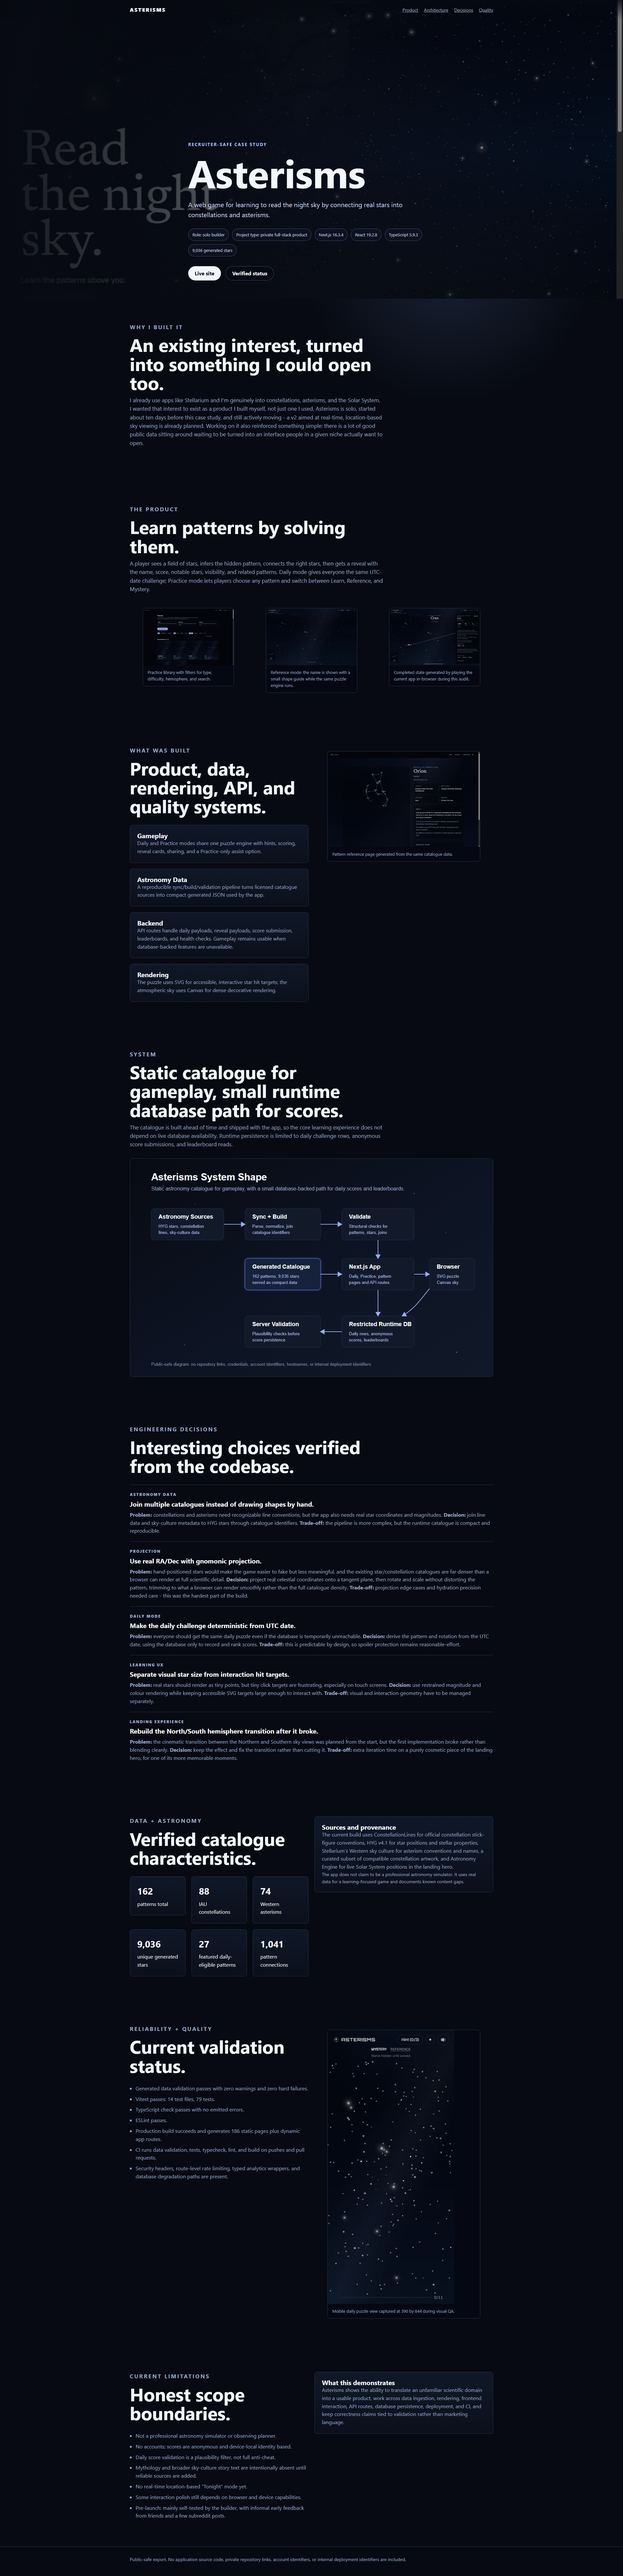
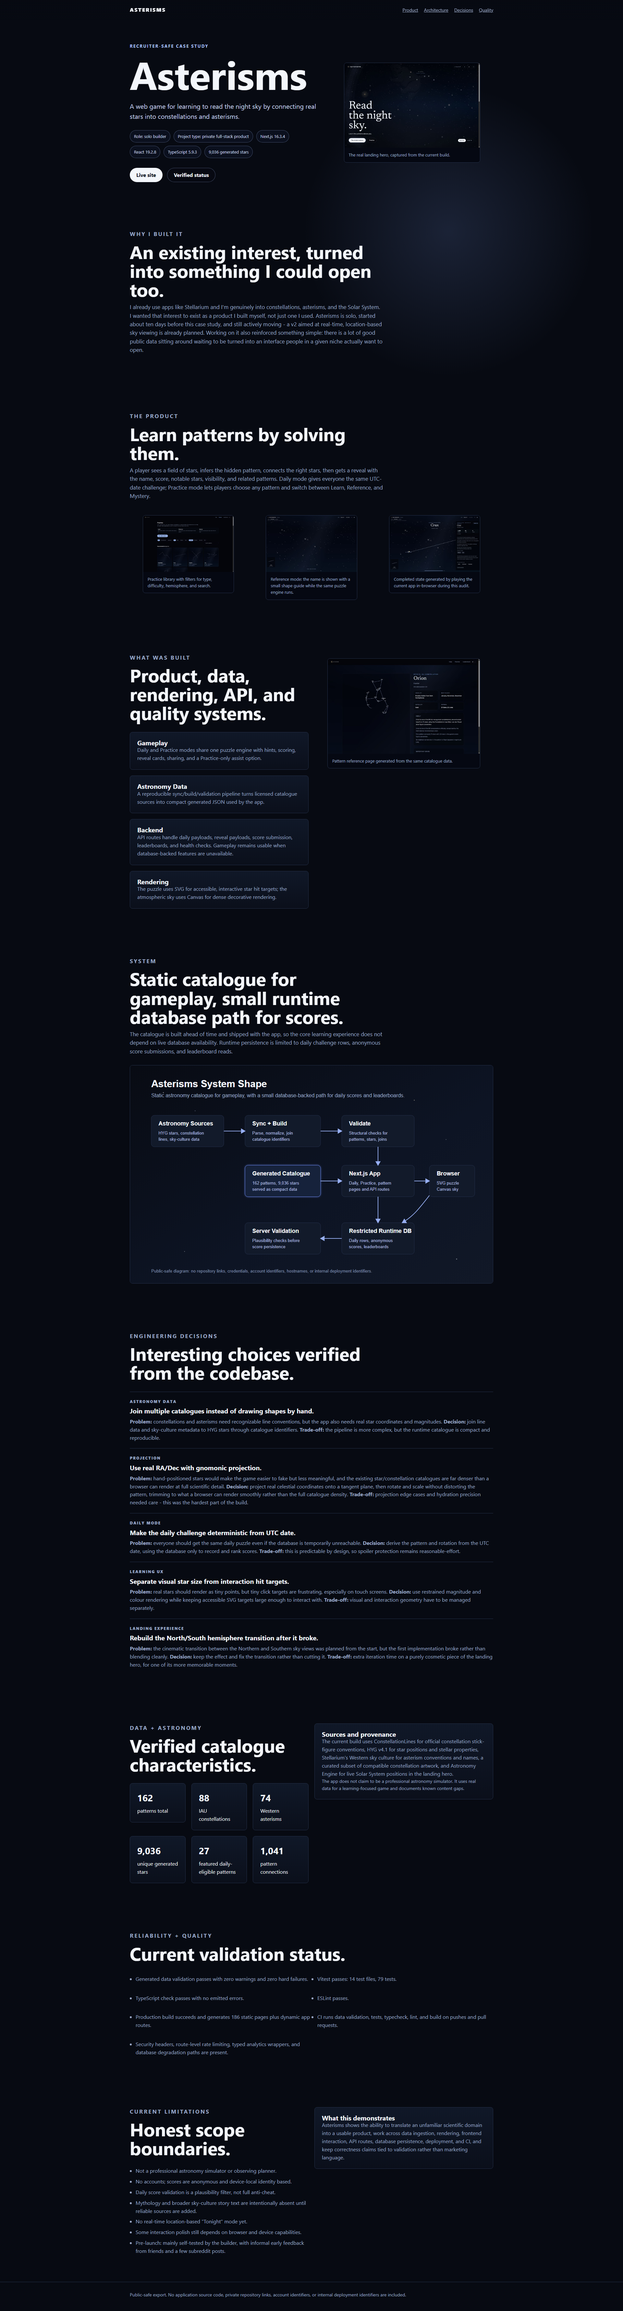
fix: stop hero background text from colliding with the case-study heading
The hero used the real landing screenshot as a full-bleed CSS background,
so the product's own "Read the night sky." headline sat directly behind
the case study's own "Asterisms" heading, illegible and confusing. Move
the screenshot into its own framed figure beside the copy instead, and
drop the low-signal empty-starfield mobile screenshot from the Quality
section (it didn't communicate anything a bordered validation checklist
couldn't) in favor of a cleaner two-column checklist.

diff --git a/index.html b/index.html
@@ -22,22 +22,28 @@
 
     <main>
       <section class="hero">
-        <div class="wrap hero-copy">
-          <p class="eyebrow">Recruiter-safe case study</p>
-          <h1>Asterisms</h1>
-          <p class="lead">A web game for learning to read the night sky by connecting real stars into constellations and asterisms.</p>
-          <div class="hero-meta">
-            <span class="pill">Role: solo builder</span>
-            <span class="pill">Project type: private full-stack product</span>
-            <span class="pill">Next.js 16.3.4</span>
-            <span class="pill">React 19.2.8</span>
-            <span class="pill">TypeScript 5.9.3</span>
-            <span class="pill">9,036 generated stars</span>
+        <div class="wrap hero-grid">
+          <div class="hero-copy">
+            <p class="eyebrow">Recruiter-safe case study</p>
+            <h1>Asterisms</h1>
+            <p class="lead">A web game for learning to read the night sky by connecting real stars into constellations and asterisms.</p>
+            <div class="hero-meta">
+              <span class="pill">Role: solo builder</span>
+              <span class="pill">Project type: private full-stack product</span>
+              <span class="pill">Next.js 16.3.4</span>
+              <span class="pill">React 19.2.8</span>
+              <span class="pill">TypeScript 5.9.3</span>
+              <span class="pill">9,036 generated stars</span>
+            </div>
+            <div class="cta-row">
+              <a class="button" href="https://asterisms.space">Live site</a>
+              <a class="button secondary" href="#quality">Verified status</a>
+            </div>
           </div>
-          <div class="cta-row">
-            <a class="button" href="https://asterisms.space">Live site</a>
-            <a class="button secondary" href="#quality">Verified status</a>
-          </div>
+          <figure class="shot hero-shot">
+            <img src="assets/screenshots/landing-1440.png" alt="The real Asterisms landing hero, showing a constellation, a live Jupiter marker, and the North/South toggle" />
+            <figcaption>The real landing hero, captured from the current build.</figcaption>
+          </figure>
         </div>
       </section>
 
@@ -172,26 +178,20 @@
       </section>
 
       <section id="quality">
-        <div class="wrap grid two">
-          <div>
-            <div class="section-head">
-              <p class="eyebrow">Reliability + Quality</p>
-              <h2>Current validation status.</h2>
-            </div>
-            <ul class="quality">
-              <li>Generated data validation passes with zero warnings and zero hard failures.</li>
-              <li>Vitest passes: 14 test files, 79 tests.</li>
-              <li>TypeScript check passes with no emitted errors.</li>
-              <li>ESLint passes.</li>
-              <li>Production build succeeds and generates 186 static pages plus dynamic app routes.</li>
-              <li>CI runs data validation, tests, typecheck, lint, and build on pushes and pull requests.</li>
-              <li>Security headers, route-level rate limiting, typed analytics wrappers, and database degradation paths are present.</li>
-            </ul>
+        <div class="wrap">
+          <div class="section-head">
+            <p class="eyebrow">Reliability + Quality</p>
+            <h2>Current validation status.</h2>
           </div>
-          <figure class="shot">
-            <img src="assets/screenshots/mobile-daily-clean-390.png" alt="Mobile daily puzzle view" />
-            <figcaption>Mobile daily puzzle view captured at 390 by 844 during visual QA.</figcaption>
-          </figure>
+          <ul class="quality grid two">
+            <li>Generated data validation passes with zero warnings and zero hard failures.</li>
+            <li>Vitest passes: 14 test files, 79 tests.</li>
+            <li>TypeScript check passes with no emitted errors.</li>
+            <li>ESLint passes.</li>
+            <li>Production build succeeds and generates 186 static pages plus dynamic app routes.</li>
+            <li>CI runs data validation, tests, typecheck, lint, and build on pushes and pull requests.</li>
+            <li>Security headers, route-level rate limiting, typed analytics wrappers, and database degradation paths are present.</li>
+          </ul>
         </div>
       </section>
 

diff --git a/styles.css b/styles.css
@@ -43,13 +43,18 @@ a {
 }
 
 .hero {
-  min-height: 92vh;
+  padding: 132px 0 72px;
+}
+
+.hero-grid {
   display: grid;
-  align-items: end;
-  padding: 32px 0 56px;
-  background:
-    linear-gradient(90deg, rgba(7, 10, 18, 0.95) 0%, rgba(7, 10, 18, 0.65) 42%, rgba(7, 10, 18, 0.25) 100%),
-    url("assets/screenshots/landing-1440.png") center / cover no-repeat;
+  grid-template-columns: 1.15fr 1fr;
+  gap: 44px;
+  align-items: center;
+}
+
+.hero-shot {
+  align-self: center;
 }
 
 .nav {
@@ -313,9 +318,12 @@ section {
   }
 
   .hero {
-    min-height: 86vh;
-    padding-bottom: 38px;
-    background-position: center;
+    padding: 108px 0 40px;
+  }
+
+  .hero-grid {
+    grid-template-columns: 1fr;
+    gap: 28px;
   }
 
   .lead {
